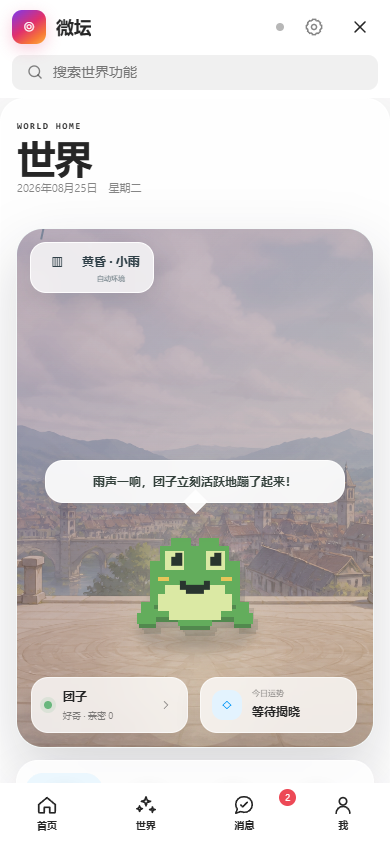
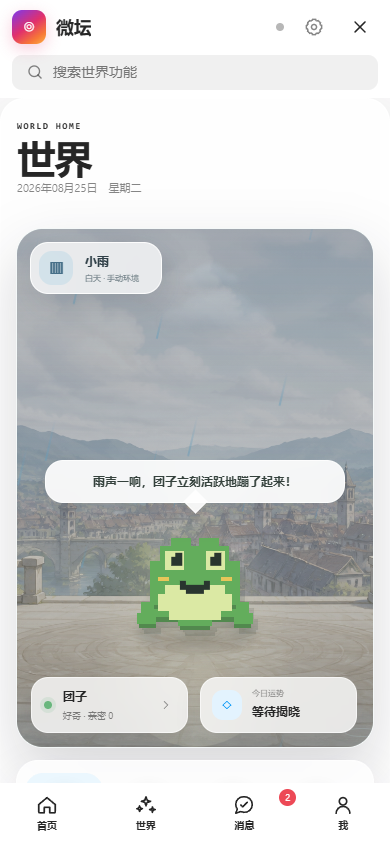
Improve world window weather effects

diff --git a/style.css b/style.css
@@ -9465,6 +9465,347 @@ button.tf-avatar {
     #tavern-forum-root .tf-companion-v4 .tf-pet-vitals > div > span { display: grid; gap: 2px; }
 }
 
+/* World window weather v2 — volumetric sky, layered particles and ground response. */
+#tavern-forum-root .tf-world-hub.is-layout-window .tf-window-scene-image {
+    transition: filter .7s ease, transform .7s ease;
+}
+
+#tavern-forum-root .tf-world-hub.is-layout-window.is-weather-sunny .tf-window-scene-image { filter: saturate(1.06) brightness(1.03); }
+#tavern-forum-root .tf-world-hub.is-layout-window.is-weather-cloudy .tf-window-scene-image { filter: saturate(.88) brightness(.96) contrast(.98); }
+#tavern-forum-root .tf-world-hub.is-layout-window.is-weather-rain .tf-window-scene-image { filter: saturate(.72) brightness(.88) contrast(.97); }
+#tavern-forum-root .tf-world-hub.is-layout-window.is-weather-snow .tf-window-scene-image { filter: saturate(.8) brightness(1.035) contrast(.94); }
+#tavern-forum-root .tf-world-hub.is-layout-window.is-weather-wind .tf-window-scene-image { filter: saturate(.96) contrast(1.01); }
+#tavern-forum-root .tf-world-hub.is-layout-window.is-time-night .tf-window-scene-image { filter: saturate(.72) brightness(.76) contrast(1.03); }
+#tavern-forum-root .tf-world-hub.is-layout-window.is-time-night.is-weather-rain .tf-window-scene-image { filter: saturate(.6) brightness(.66) contrast(1.05); }
+
+#tavern-forum-root .tf-world-hub.is-layout-window.is-weather-cloudy .tf-window-time-tint {
+    background: linear-gradient(180deg, rgb(111 126 142 / 13%), transparent 54%, rgb(198 205 205 / 8%));
+}
+
+#tavern-forum-root .tf-world-hub.is-layout-window.is-weather-rain .tf-window-time-tint {
+    background: linear-gradient(180deg, rgb(49 69 91 / 30%), rgb(71 90 105 / 10%) 54%, rgb(38 54 64 / 19%));
+}
+
+#tavern-forum-root .tf-world-hub.is-layout-window.is-weather-snow .tf-window-time-tint {
+    background: linear-gradient(180deg, rgb(226 238 248 / 18%), transparent 45%, rgb(237 247 252 / 25%));
+}
+
+#tavern-forum-root .tf-world-hub.is-layout-window.is-weather-snow.is-time-dusk .tf-window-time-tint {
+    background: linear-gradient(155deg, rgb(114 92 126 / 20%), rgb(232 209 218 / 11%) 49%, rgb(234 244 249 / 28%));
+}
+
+#tavern-forum-root .tf-world-hub.is-layout-window.is-time-night .tf-window-time-tint {
+    background: linear-gradient(180deg, rgb(20 36 62 / 51%), rgb(12 25 49 / 57%));
+    mix-blend-mode: multiply;
+}
+
+#tavern-forum-root .tf-world-hub.is-layout-window .tf-window-weather-layer {
+    z-index: 3;
+    perspective: 800px;
+}
+
+#tavern-forum-root .tf-world-hub.is-layout-window .tf-window-atmosphere {
+    z-index: 0;
+    inset: 0;
+    display: block;
+    background: transparent;
+}
+
+#tavern-forum-root .tf-world-hub.is-layout-window.is-weather-sunny:not(.is-time-night) .tf-window-atmosphere {
+    background:
+        linear-gradient(116deg, transparent 52%, rgb(255 244 194 / 11%) 72%, transparent 93%),
+        radial-gradient(circle at 86% 10%, rgb(255 239 177 / 21%), transparent 27%);
+}
+
+#tavern-forum-root .tf-world-hub.is-layout-window.is-weather-cloudy .tf-window-atmosphere,
+#tavern-forum-root .tf-world-hub.is-layout-window.is-weather-rain .tf-window-atmosphere,
+#tavern-forum-root .tf-world-hub.is-layout-window.is-weather-snow .tf-window-atmosphere {
+    background: linear-gradient(180deg, rgb(228 236 240 / 9%), transparent 39%, rgb(225 234 235 / 16%) 66%, transparent 87%);
+    backdrop-filter: blur(.35px);
+}
+
+#tavern-forum-root .tf-world-hub.is-layout-window .tf-window-sun {
+    z-index: 1;
+    top: 30px;
+    right: 48px;
+    width: 58px;
+    height: 58px;
+    background: radial-gradient(circle at 42% 40%, #fff9d9 0 22%, rgb(255 230 143 / 91%) 49%, rgb(255 218 120 / 55%) 70%);
+    box-shadow: 0 0 0 13px rgb(255 229 141 / 9%), 0 0 58px 18px rgb(255 229 141 / 34%);
+    animation: tf-weather-sun-breathe 6s ease-in-out infinite;
+}
+
+#tavern-forum-root .tf-world-hub.is-layout-window .tf-window-sun::after {
+    position: absolute;
+    inset: -65px;
+    border-radius: 50%;
+    background: radial-gradient(circle, rgb(255 238 173 / 13%), transparent 67%);
+    content: '';
+}
+
+#tavern-forum-root .tf-world-hub.is-layout-window .tf-window-moon {
+    z-index: 1;
+    top: 31px;
+    right: 52px;
+    width: 52px;
+    height: 52px;
+    overflow: hidden;
+    border-radius: 50%;
+    background: linear-gradient(145deg, #fff7d2, #ebdfad);
+    box-shadow: 0 0 38px 10px rgb(255 239 181 / 22%);
+    color: transparent;
+    font-size: 0;
+    opacity: .88;
+    animation: tf-weather-moon-float 6.5s ease-in-out infinite;
+}
+
+#tavern-forum-root .tf-world-hub.is-layout-window .tf-window-moon::after {
+    position: absolute;
+    top: -8px;
+    left: 15px;
+    width: 52px;
+    height: 52px;
+    border-radius: 50%;
+    background: rgb(49 62 83 / 93%);
+    content: '';
+}
+
+#tavern-forum-root .tf-world-hub.is-layout-window.is-weather-cloudy .tf-window-moon,
+#tavern-forum-root .tf-world-hub.is-layout-window.is-weather-rain .tf-window-moon,
+#tavern-forum-root .tf-world-hub.is-layout-window.is-weather-snow .tf-window-moon { opacity: .24; }
+
+#tavern-forum-root .tf-world-hub.is-layout-window .tf-window-cloud {
+    z-index: 2;
+    --cloud-scale: .78;
+    width: 176px;
+    height: 36px;
+    border-radius: 60px;
+    background: linear-gradient(180deg, rgb(255 255 255 / 55%), rgb(216 229 235 / 35%));
+    box-shadow: 0 13px 30px rgb(81 102 116 / 5%);
+    filter: blur(5px);
+    opacity: .3;
+    will-change: transform;
+}
+
+#tavern-forum-root .tf-world-hub.is-layout-window .tf-window-cloud::before,
+#tavern-forum-root .tf-world-hub.is-layout-window .tf-window-cloud::after {
+    position: absolute;
+    bottom: 8px;
+    border-radius: 50%;
+    background: inherit;
+    content: '';
+}
+
+#tavern-forum-root .tf-world-hub.is-layout-window .tf-window-cloud::before { bottom: 1px; left: 30px; width: 72px; height: 57px; }
+#tavern-forum-root .tf-world-hub.is-layout-window .tf-window-cloud::after { right: 26px; bottom: 0; width: 94px; height: 64px; }
+#tavern-forum-root .tf-world-hub.is-layout-window .tf-window-cloud.is-one { top: 72px; left: -250px; animation: tf-weather-cloud-drift 31s linear -11s infinite; }
+#tavern-forum-root .tf-world-hub.is-layout-window .tf-window-cloud.is-two { top: 145px; left: -290px; --cloud-scale: .62; width: 218px; opacity: .2; animation: tf-weather-cloud-drift 40s linear -29s infinite; }
+#tavern-forum-root .tf-world-hub.is-layout-window .tf-window-cloud.is-three { top: 34px; left: -310px; --cloud-scale: .48; width: 145px; opacity: .16; animation: tf-weather-cloud-drift 47s linear -20s infinite; }
+#tavern-forum-root .tf-world-hub.is-layout-window .tf-window-cloud.is-four { top: 205px; left: -260px; --cloud-scale: .42; width: 190px; opacity: .12; animation: tf-weather-cloud-drift 52s linear -42s infinite; }
+
+#tavern-forum-root .tf-world-hub.is-layout-window.is-weather-rain .tf-window-cloud {
+    background: linear-gradient(180deg, rgb(205 219 228 / 70%), rgb(119 143 159 / 49%));
+    opacity: .27;
+}
+
+#tavern-forum-root .tf-world-hub.is-layout-window.is-weather-snow .tf-window-cloud {
+    background: linear-gradient(180deg, rgb(255 255 255 / 69%), rgb(214 228 238 / 48%));
+    opacity: .22;
+}
+
+#tavern-forum-root .tf-world-hub.is-layout-window .tf-window-rain,
+#tavern-forum-root .tf-world-hub.is-layout-window .tf-window-snow,
+#tavern-forum-root .tf-world-hub.is-layout-window .tf-window-wind {
+    z-index: 4;
+    inset: 0;
+    overflow: hidden;
+}
+
+#tavern-forum-root .tf-world-hub.is-layout-window .tf-window-rain b {
+    top: calc(-1 * var(--weather-length));
+    left: var(--weather-x);
+    width: 1px;
+    height: var(--weather-length);
+    border-radius: 99px;
+    background: linear-gradient(180deg, transparent, rgb(104 158 187 / 82%));
+    opacity: .7;
+    transform: rotate(13deg);
+    animation: tf-weather-rainfall var(--weather-duration) linear var(--weather-delay) infinite;
+    will-change: transform, opacity;
+}
+
+#tavern-forum-root .tf-world-hub.is-layout-window .tf-window-rain b:nth-child(3n) { width: 2px; opacity: .34; filter: blur(.45px); }
+#tavern-forum-root .tf-world-hub.is-layout-window .tf-window-rain b:nth-child(even) { width: 2px; opacity: .57; }
+#tavern-forum-root .tf-world-hub.is-layout-window .tf-window-rain b:nth-child(4n) { opacity: .8; }
+
+#tavern-forum-root .tf-world-hub.is-layout-window .tf-window-snow b {
+    top: calc(-1 * var(--weather-size) - 8px);
+    left: var(--weather-x);
+    width: var(--weather-size);
+    height: var(--weather-size);
+    border-radius: 50%;
+    background: rgb(255 255 255 / 92%);
+    box-shadow: 0 0 7px rgb(255 255 255 / 72%);
+    opacity: .82;
+    animation: tf-weather-snowfall var(--weather-duration) linear var(--weather-delay) infinite;
+    will-change: transform, opacity;
+}
+
+#tavern-forum-root .tf-world-hub.is-layout-window .tf-window-snow b:nth-child(3n) { opacity: .42; filter: blur(1.2px); }
+#tavern-forum-root .tf-world-hub.is-layout-window .tf-window-snow b:nth-child(5n) { opacity: .65; filter: blur(.45px); }
+#tavern-forum-root .tf-world-hub.is-layout-window .tf-window-snow b:nth-child(7n) { box-shadow: 0 0 11px 2px rgb(255 255 255 / 48%); }
+
+#tavern-forum-root .tf-world-hub.is-layout-window .tf-window-wind b {
+    left: -190px;
+    width: 180px;
+    height: 34px;
+    border-top: 2px solid rgb(255 255 255 / 56%);
+    border-radius: 50%;
+    background: transparent;
+    opacity: 0;
+    animation: tf-weather-wind-stream 4.8s ease-in-out infinite;
+}
+
+#tavern-forum-root .tf-world-hub.is-layout-window .tf-window-wind b:nth-child(1) { top: 20%; }
+#tavern-forum-root .tf-world-hub.is-layout-window .tf-window-wind b:nth-child(2) { top: 39%; width: 125px; animation-delay: -2.8s; }
+#tavern-forum-root .tf-world-hub.is-layout-window .tf-window-wind b:nth-child(3) { top: 58%; width: 220px; animation-delay: -1.1s; }
+#tavern-forum-root .tf-world-hub.is-layout-window .tf-window-wind b:nth-child(4) { top: 74%; width: 145px; animation-delay: -3.7s; }
+
+#tavern-forum-root .tf-world-hub.is-layout-window .tf-window-weather-ground {
+    z-index: 3;
+    right: 0;
+    bottom: 0;
+    left: 0;
+    height: 31%;
+    pointer-events: none;
+}
+
+#tavern-forum-root .tf-world-hub.is-layout-window.is-weather-snow .tf-window-weather-ground {
+    display: block;
+    background: linear-gradient(180deg, transparent 0 47%, rgb(241 248 250 / 4%) 63%, rgb(245 250 252 / 24%) 100%);
+    mix-blend-mode: screen;
+}
+
+#tavern-forum-root .tf-world-hub.is-layout-window.is-weather-rain .tf-window-weather-ground {
+    display: block;
+    background: linear-gradient(180deg, transparent, rgb(94 128 147 / 7%) 63%, rgb(173 205 219 / 17%));
+}
+
+#tavern-forum-root .tf-world-hub.is-layout-window .tf-window-weather-ground b { display: none; }
+#tavern-forum-root .tf-world-hub.is-layout-window.is-weather-rain .tf-window-weather-ground b {
+    position: absolute;
+    bottom: 9%;
+    left: 13%;
+    display: block;
+    width: 34px;
+    height: 9px;
+    border: 1px solid rgb(201 226 237 / 49%);
+    border-radius: 50%;
+    opacity: 0;
+    animation: tf-weather-ripple 2.2s ease-out infinite;
+}
+
+#tavern-forum-root .tf-world-hub.is-layout-window .tf-window-weather-ground b:nth-child(2) { bottom: 26%; left: 28%; animation-delay: -.7s; }
+#tavern-forum-root .tf-world-hub.is-layout-window .tf-window-weather-ground b:nth-child(3) { bottom: 13%; left: 43%; animation-delay: -1.5s; }
+#tavern-forum-root .tf-world-hub.is-layout-window .tf-window-weather-ground b:nth-child(4) { bottom: 31%; left: 58%; animation-delay: -.3s; }
+#tavern-forum-root .tf-world-hub.is-layout-window .tf-window-weather-ground b:nth-child(5) { bottom: 17%; left: 72%; animation-delay: -1.1s; }
+#tavern-forum-root .tf-world-hub.is-layout-window .tf-window-weather-ground b:nth-child(6) { bottom: 35%; left: 84%; animation-delay: -1.8s; }
+#tavern-forum-root .tf-world-hub.is-layout-window .tf-window-weather-ground b:nth-child(7) { bottom: 6%; left: 92%; animation-delay: -.9s; }
+
+#tavern-forum-root .tf-world-hub.is-layout-window .tf-window-weather-chip {
+    display: grid;
+    grid-template-columns: 38px minmax(0, 1fr);
+    gap: 8px;
+    min-width: 146px;
+    padding: 8px 12px 8px 8px;
+    border-radius: 18px;
+    background: rgb(255 255 255 / 76%);
+    box-shadow: 0 10px 30px rgb(37 49 58 / 11%);
+    backdrop-filter: blur(18px) saturate(1.1);
+}
+
+#tavern-forum-root .tf-world-hub.is-layout-window .tf-window-weather-icon {
+    display: grid;
+    width: 38px;
+    height: 38px;
+    place-items: center;
+    border-radius: 13px;
+    background: rgb(255 255 255 / 51%);
+    color: #5f7280;
+    font: 700 19px/1 ui-monospace, monospace;
+}
+
+#tavern-forum-root .tf-world-hub.is-layout-window.is-weather-sunny .tf-window-weather-icon { background: rgb(255 235 171 / 43%); color: #a87319; }
+#tavern-forum-root .tf-world-hub.is-layout-window.is-weather-rain .tf-window-weather-icon { background: rgb(193 218 231 / 54%); color: #466f88; }
+#tavern-forum-root .tf-world-hub.is-layout-window.is-weather-snow .tf-window-weather-icon { background: rgb(226 240 248 / 67%); color: #66869b; }
+#tavern-forum-root .tf-world-hub.is-layout-window.is-weather-wind .tf-window-weather-icon { background: rgb(217 232 221 / 59%); color: #66806d; }
+#tavern-forum-root .tf-world-hub.is-layout-window .tf-window-weather-copy { display: grid; gap: 2px; min-width: 0; text-align: left; }
+#tavern-forum-root .tf-world-hub.is-layout-window .tf-window-weather-copy b { overflow: hidden; font-size: 12px; text-overflow: ellipsis; white-space: nowrap; }
+#tavern-forum-root .tf-world-hub.is-layout-window .tf-window-weather-copy small { grid-column: auto; color: #718087; font-size: 8px; white-space: nowrap; }
+
+@keyframes tf-weather-sun-breathe {
+    50% { transform: scale(1.04); box-shadow: 0 0 0 18px rgb(255 229 141 / 7%), 0 0 68px 24px rgb(255 229 141 / 37%); }
+}
+
+@keyframes tf-weather-moon-float {
+    50% { transform: translateY(-4px) rotate(-2deg); }
+}
+
+@keyframes tf-weather-cloud-drift {
+    from { transform: translate3d(0, 0, 0) scale(var(--cloud-scale)); }
+    to { transform: translate3d(calc(100vw + 620px), 0, 0) scale(var(--cloud-scale)); }
+}
+
+@keyframes tf-weather-rainfall {
+    0% { opacity: 0; transform: translate3d(0, -30px, 0) rotate(13deg); }
+    12% { opacity: .68; }
+    92% { opacity: .54; }
+    100% { opacity: 0; transform: translate3d(-82px, 720px, 0) rotate(13deg); }
+}
+
+@keyframes tf-weather-snowfall {
+    0% { opacity: 0; transform: translate3d(0, -24px, 0) rotate(0); }
+    10% { opacity: .84; }
+    82% { opacity: .75; }
+    100% { opacity: 0; transform: translate3d(var(--weather-drift), 700px, 0) rotate(190deg); }
+}
+
+@keyframes tf-weather-wind-stream {
+    0% { opacity: 0; transform: translate3d(0, 0, 0) scaleX(.72); }
+    18%, 72% { opacity: .66; }
+    100% { opacity: 0; transform: translate3d(calc(100vw + 480px), -16px, 0) scaleX(1); }
+}
+
+@keyframes tf-weather-ripple {
+    0% { opacity: 0; transform: scale(.28); }
+    22% { opacity: .66; }
+    100% { opacity: 0; transform: scale(1.45); }
+}
+
+@container (max-width: 540px) {
+    #tavern-forum-root .tf-world-hub.is-layout-window .tf-window-weather-chip { min-width: 132px; }
+    #tavern-forum-root .tf-world-hub.is-layout-window .tf-window-weather-icon { width: 34px; height: 34px; font-size: 17px; }
+    #tavern-forum-root .tf-world-hub.is-layout-window .tf-window-cloud.is-four { display: none; }
+    #tavern-forum-root .tf-world-hub.is-layout-window .tf-window-cloud.is-one { --cloud-scale: .6; }
+    #tavern-forum-root .tf-world-hub.is-layout-window .tf-window-cloud.is-two { --cloud-scale: .48; }
+    #tavern-forum-root .tf-world-hub.is-layout-window .tf-window-cloud.is-three { --cloud-scale: .38; }
+    #tavern-forum-root .tf-world-hub.is-layout-window .tf-window-rain b:nth-child(n + 21),
+    #tavern-forum-root .tf-world-hub.is-layout-window .tf-window-snow b:nth-child(n + 23) { display: none; }
+}
+
+@media (prefers-reduced-motion: reduce) {
+    #tavern-forum-root .tf-world-hub.is-layout-window .tf-window-sun,
+    #tavern-forum-root .tf-world-hub.is-layout-window .tf-window-moon,
+    #tavern-forum-root .tf-world-hub.is-layout-window .tf-window-cloud,
+    #tavern-forum-root .tf-world-hub.is-layout-window .tf-window-rain b,
+    #tavern-forum-root .tf-world-hub.is-layout-window .tf-window-snow b,
+    #tavern-forum-root .tf-world-hub.is-layout-window .tf-window-wind b,
+    #tavern-forum-root .tf-world-hub.is-layout-window .tf-window-weather-ground b { animation: none; }
+    #tavern-forum-root .tf-world-hub.is-layout-window .tf-window-rain,
+    #tavern-forum-root .tf-world-hub.is-layout-window .tf-window-snow,
+    #tavern-forum-root .tf-world-hub.is-layout-window .tf-window-wind { opacity: .34; }
+}
+
 /* World window — quiet HUD with the companion as the scene focus. */
 #tavern-forum-root .tf-world-hub.is-layout-window .tf-world-window-shell {
     grid-template-columns: minmax(0, 1fr) 100px;

diff --git a/src/ui-v3.js b/src/ui-v3.js
@@ -909,7 +909,22 @@ function renderWorldAppDock(cards, companion, className = '') {
 }
 
 function renderWorldWindowWeather() {
-    return `<span class="tf-window-weather-layer" aria-hidden="true"><i class="tf-window-sun"></i><i class="tf-window-moon">☾</i><i class="tf-window-cloud is-one"></i><i class="tf-window-cloud is-two"></i><i class="tf-window-rain">${'<b></b>'.repeat(12)}</i><i class="tf-window-snow">${'<b>✦</b>'.repeat(10)}</i><i class="tf-window-wind"><b></b><b></b><b></b></i></span>`;
+    const rain = Array.from({ length: 28 }, (_, index) => {
+        const x = (index * 37 + 7) % 101;
+        const delay = -((index % 13) * 0.11).toFixed(2);
+        const duration = (0.82 + (index % 5) * 0.1).toFixed(2);
+        const length = 18 + (index % 4) * 8;
+        return `<b style="--weather-x:${x}%;--weather-delay:${delay}s;--weather-duration:${duration}s;--weather-length:${length}px"></b>`;
+    }).join('');
+    const snow = Array.from({ length: 30 }, (_, index) => {
+        const x = (index * 43 + 5) % 101;
+        const delay = -((index % 15) * 0.47).toFixed(2);
+        const duration = (5.2 + (index % 7) * 0.58).toFixed(2);
+        const size = 3 + (index % 5);
+        const drift = -32 + (index * 19) % 65;
+        return `<b style="--weather-x:${x}%;--weather-delay:${delay}s;--weather-duration:${duration}s;--weather-size:${size}px;--weather-drift:${drift}px"></b>`;
+    }).join('');
+    return `<span class="tf-window-weather-layer" aria-hidden="true"><i class="tf-window-atmosphere"></i><i class="tf-window-sun"><b></b></i><i class="tf-window-moon">☾</i><i class="tf-window-cloud is-one"></i><i class="tf-window-cloud is-two"></i><i class="tf-window-cloud is-three"></i><i class="tf-window-cloud is-four"></i><i class="tf-window-rain">${rain}</i><i class="tf-window-snow">${snow}</i><i class="tf-window-wind"><b></b><b></b><b></b><b></b></i><i class="tf-window-weather-ground">${'<b></b>'.repeat(7)}</i></span>`;
 }
 
 function renderServicesHub(data) {
@@ -939,7 +954,7 @@ function renderServicesHub(data) {
     if (!cards.length) return `<section class="tf-services-page tf-world-hub is-layout-${layout}">${header}${empty}</section>`;
     if (layout === 'window') {
         const travelAction = settings.modules.travel?.enabled ? 'data-action="open-world-page" data-module-id="travel"' : 'disabled';
-        return `<section class="tf-services-page tf-world-hub is-layout-window is-weather-${escapeHtml(weatherClass)} is-time-${escapeHtml(time.id)}">${header}<section class="tf-world-window-shell"><div class="tf-world-window-scene"><span class="tf-window-scene-image"></span><span class="tf-window-time-tint"></span>${renderWorldWindowWeather()}<button class="tf-window-weather-chip" ${travelAction}>${weather.icon}<b>${escapeHtml(weather.label)}</b><small>${time.automatic && weather.automatic ? '自动环境' : '手动环境'}</small></button><button class="tf-window-pet-stage" ${travelAction} aria-label="打开旅伴">${renderPixelCompanion(companion.species, companion.status)}</button><button class="tf-window-reaction" ${travelAction}>${escapeHtml(companion.status === 'away' ? companion.message || '正在旅途中。' : getCompanionAmbientReaction(data))}</button><button class="tf-window-companion" ${travelAction}><i class="tf-window-status-dot" aria-hidden="true"></i><span><b>${escapeHtml(companion.name)}</b><small>${escapeHtml(companion.status === 'away' ? companion.destination || '旅途中' : `${companion.mood || '平静'} · 亲密 ${Number(companion.bond || 0)}`)}</small></span>${icon('chevron')}</button>${settings.modules.fortune?.enabled ? `<button class="tf-window-fortune" data-action="open-world-page" data-module-id="fortune"><i>${world.fortune?.sigil || '◇'}</i><span><small>今日运势</small><b>${escapeHtml(world.fortune?.label || '等待揭晓')}</b><em>${escapeHtml(world.fortune?.theme || '抽取一张今日签')}</em></span>${icon('chevron')}</button>` : ''}</div>${renderWorldAppDock(cards, companion, 'is-window-rail')}</section><footer class="tf-world-runtime-strip"><i></i><b>世界正在运行</b><span>天气、旅伴与今日状态都在继续变化</span></footer></section>`;
+        return `<section class="tf-services-page tf-world-hub is-layout-window is-weather-${escapeHtml(weatherClass)} is-time-${escapeHtml(time.id)}">${header}<section class="tf-world-window-shell"><div class="tf-world-window-scene"><span class="tf-window-scene-image"></span><span class="tf-window-time-tint"></span>${renderWorldWindowWeather()}<button class="tf-window-weather-chip" ${travelAction}><span class="tf-window-weather-icon" aria-hidden="true">${weather.icon}</span><span class="tf-window-weather-copy"><b>${escapeHtml(weather.conditionLabel || weather.label)}</b><small>${escapeHtml(time.label)} · ${time.automatic && weather.automatic ? '自动环境' : '手动环境'}</small></span></button><button class="tf-window-pet-stage" ${travelAction} aria-label="打开旅伴">${renderPixelCompanion(companion.species, companion.status)}</button><button class="tf-window-reaction" ${travelAction}>${escapeHtml(companion.status === 'away' ? companion.message || '正在旅途中。' : getCompanionAmbientReaction(data))}</button><button class="tf-window-companion" ${travelAction}><i class="tf-window-status-dot" aria-hidden="true"></i><span><b>${escapeHtml(companion.name)}</b><small>${escapeHtml(companion.status === 'away' ? companion.destination || '旅途中' : `${companion.mood || '平静'} · 亲密 ${Number(companion.bond || 0)}`)}</small></span>${icon('chevron')}</button>${settings.modules.fortune?.enabled ? `<button class="tf-window-fortune" data-action="open-world-page" data-module-id="fortune"><i>${world.fortune?.sigil || '◇'}</i><span><small>今日运势</small><b>${escapeHtml(world.fortune?.label || '等待揭晓')}</b><em>${escapeHtml(world.fortune?.theme || '抽取一张今日签')}</em></span>${icon('chevron')}</button>` : ''}</div>${renderWorldAppDock(cards, companion, 'is-window-rail')}</section><footer class="tf-world-runtime-strip"><i></i><b>世界正在运行</b><span>天气、旅伴与今日状态都在继续变化</span></footer></section>`;
     }
     const travelAction = settings.modules.travel?.enabled ? 'data-action="open-world-page" data-module-id="travel"' : 'disabled';
     return `<section class="tf-services-page tf-world-hub is-layout-bento">${header}<section class="tf-world-bento"><button class="tf-world-bento-companion" ${travelAction}><header><div><small>我的旅伴</small><h2>${escapeHtml(companion.name)}</h2><em>${escapeHtml(companion.status === 'away' ? companion.destination || '旅途中' : `${companion.mood || '平静'} · 亲密 ${Number(companion.bond || 0)}`)}</em></div>${icon('chevron')}</header><span class="tf-bento-pet-stage">${renderPixelCompanion(companion.species, companion.status)}<i>♥</i></span><p class="tf-bento-reaction"><span>♡</span>${escapeHtml(companion.status === 'away' ? companion.message || '正在旅途中。' : getCompanionAmbientReaction(data))}</p></button><div class="tf-world-bento-side"><button class="tf-world-bento-weather" ${travelAction}><span>${weather.icon}</span><div><small>${time.automatic && weather.automatic ? '本地环境' : '手动环境'}</small><b>${escapeHtml(weather.label)}</b><p>${escapeHtml(weather.note)}</p></div>${icon('chevron')}</button>${settings.modules.fortune?.enabled ? `<button class="tf-world-bento-fortune" data-action="open-world-page" data-module-id="fortune"><span>${world.fortune?.sigil || '◇'}</span><div><small>今日运势</small><b>${escapeHtml(world.fortune?.label || '等待揭晓')}</b><p>${escapeHtml(world.fortune?.theme || '抽取一张今日签')}</p></div>${icon('chevron')}</button>` : ''}</div></section>${renderWorldAppDock(cards, companion, 'is-bento-dock')}</section>`;
@@ -1490,6 +1505,7 @@ function getLocalCompanionWeather(data, time, date = new Date()) {
         ...selected,
         id: `${selected.id} is-time-${time.id}`,
         label: `${time.label} · ${selected.label}`,
+        conditionLabel: selected.label,
         automatic: manualId === 'auto' || !manualId,
         slot,
         dateKey,
